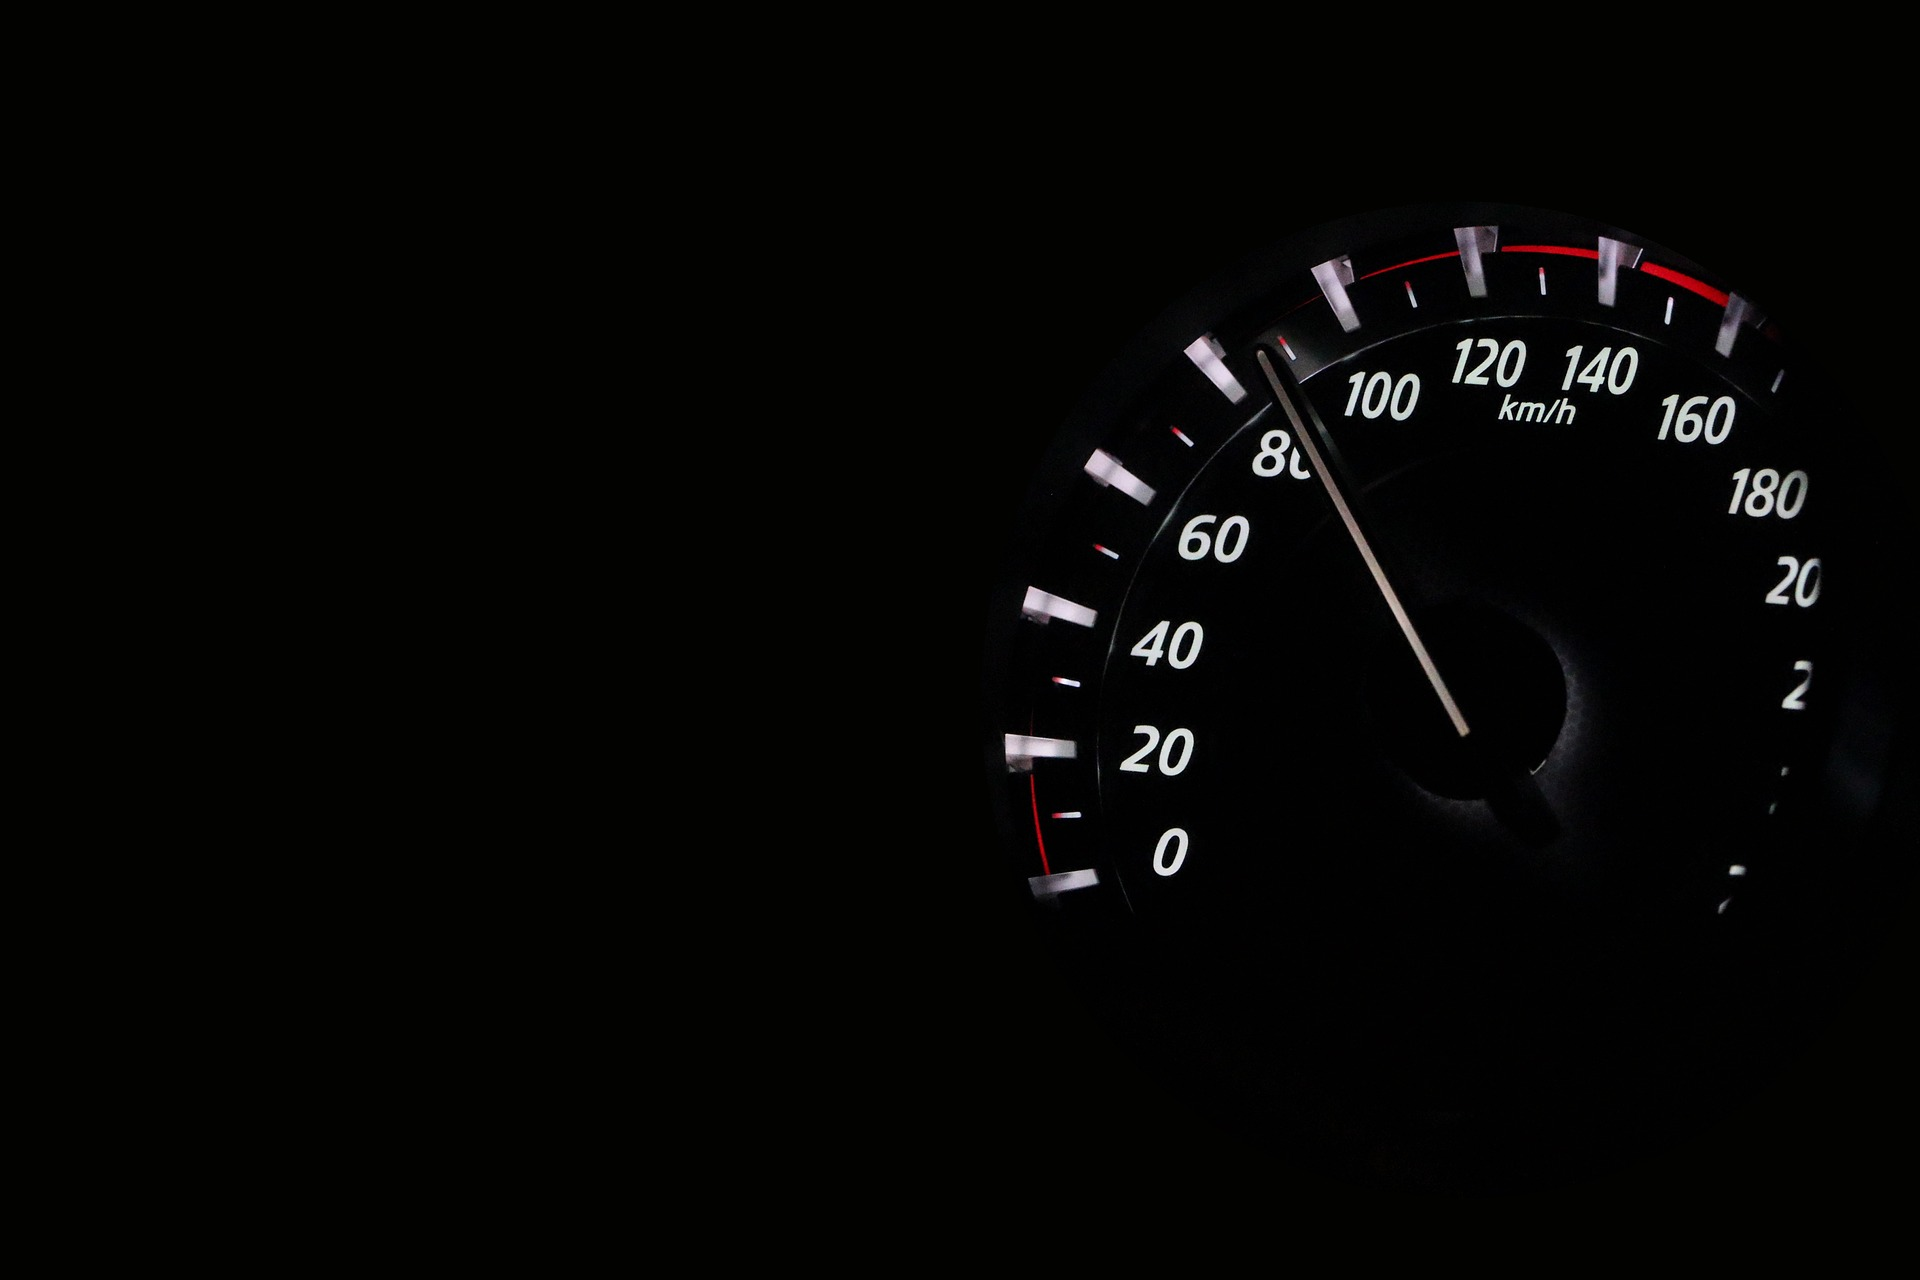
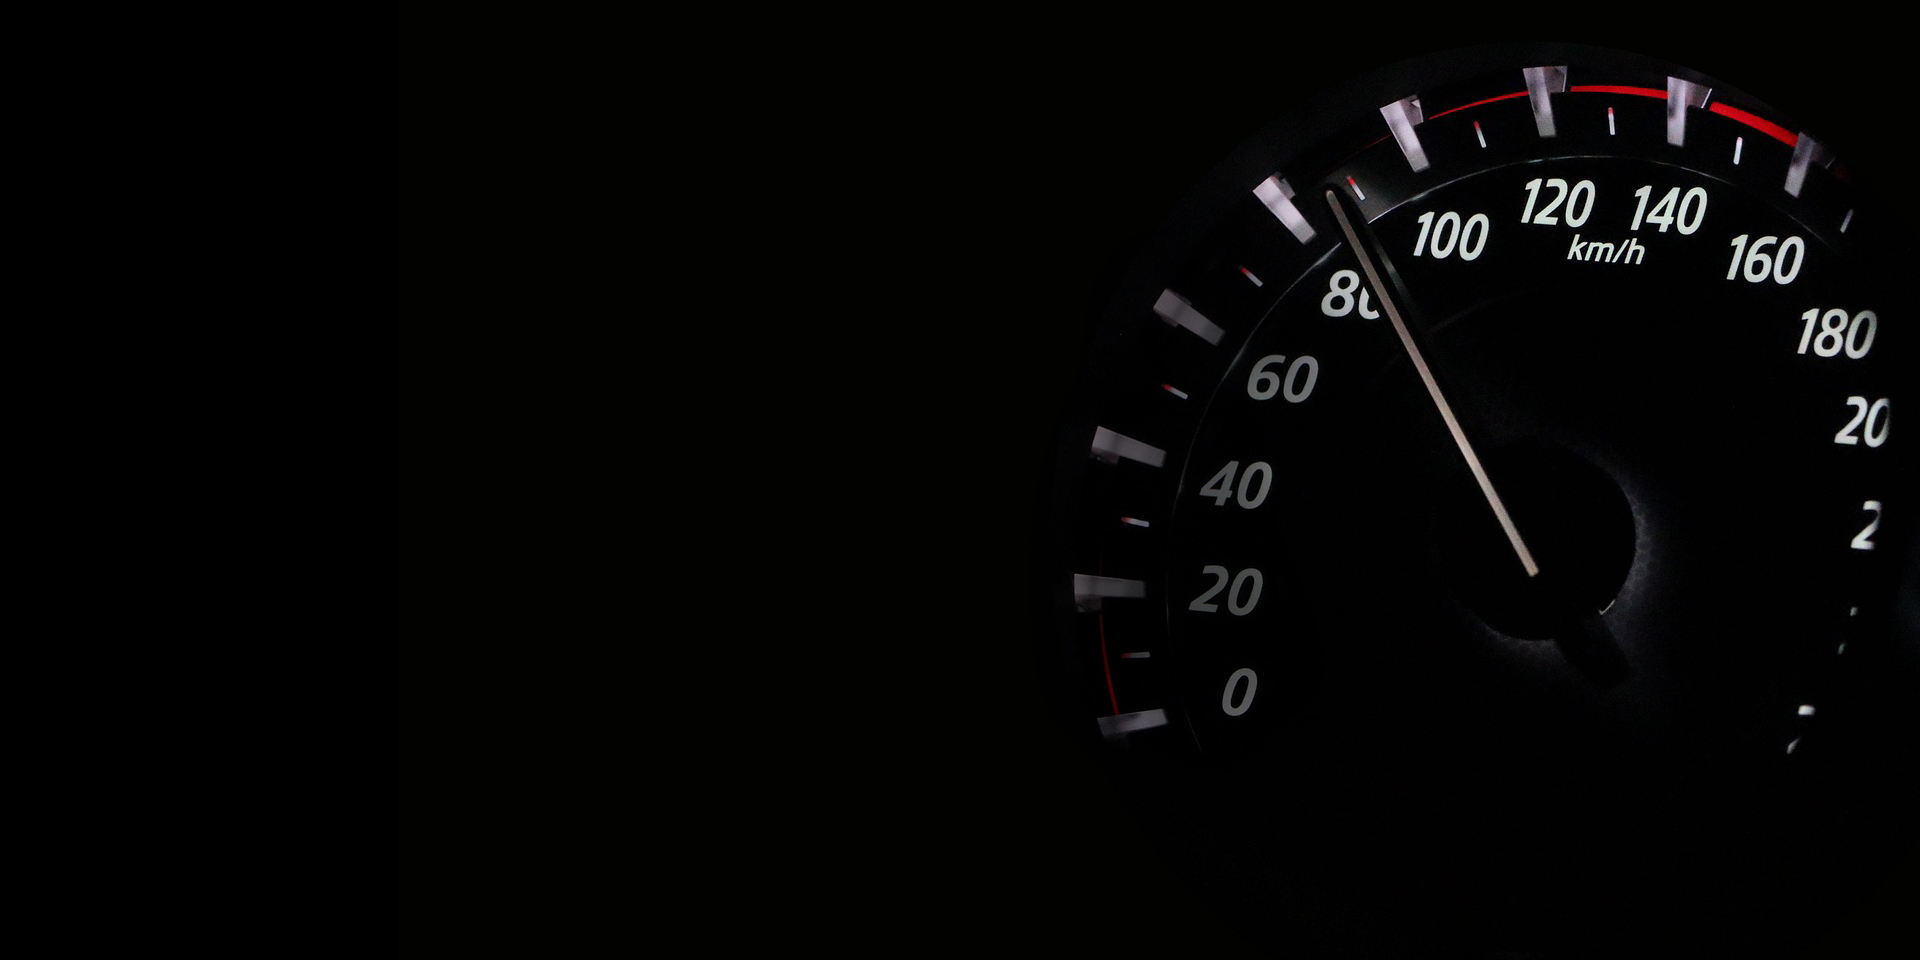
Páginas ok
Segunda janela
Inserir dados
Login
Cadastro

diff --git a/Templates/SegundaJanela.html b/Templates/SegundaJanela.html
@@ -1,11 +1,12 @@
 {% extends "Layout.html" %}
 {% block content %}
 <body>
-    <div class= "content-section">
+    <div class="conteiner-fluid" style="background-image: url(static/imagens/porsche.jpg); background-size: cover; height: auto; margin: -35px auto -50px; padding: 50px 0;">
+    <div class= "content-section  mx-auto bg-dark" style="width: 450px; opacity: .9;">
         <form method = 'POST' action = ''>
             {{ form.hidden_tag() }}
             <fieldset class = 'form-group'>
-                    <div class= "form-group">
+                    <div class= "form-group mb-2">
                         {{form.Marca.label(class="form-control-label") }}
                         {% if form.Marca.errors %}
                             {{ form.Marca(class="form-control form-control-lg is-invalid")}}
@@ -18,7 +19,7 @@
                                 {{ form.Marca(class="form-control form-control-lg") }}
                         {% endif %}
                     </div>
-                <div class= "form-group">
+                <div class= "form-group mb-2">
                     {{form.Modelo.label(class="form-control-label") }}
                     {% if form.Modelo.errors %}
                         {{ form.Modelo(class="form-control form-control-lg is-invalid")}}
@@ -31,7 +32,7 @@
                             {{ form.Modelo(class="form-control form-control-lg") }}
                     {% endif %}
                 </div>
-                <div class= "form-group">
+                <div class= "form-group mb-2">
                     {{form.Ano.label(class="form-control-label") }}
 
                     {% if form.Ano.errors %}
@@ -45,7 +46,7 @@
                             {{ form.Ano(class="form-control form-control-lg") }}
                     {% endif %}
                 </div>
-                <div class= "form-group">
+                <div class= "form-group mb-2">
                     {{form.Quilometragem.label(class="form-control-label") }}
 
                     {% if form.Quilometragem.errors %}
@@ -60,7 +61,7 @@
                     {% endif %}
 
                 </div>
-                <div class= "form-group">
+                <div class= "form-group mb-2">
                     {{form.Preco.label(class="form-control-label") }}
 
                     {% if form.Preco.errors %}
@@ -74,7 +75,7 @@
                             {{ form.Preco(class="form-control form-control-lg") }}
                     {% endif %}
                 </div>
-                <div class= "form-group">
+                <div class= "form-group mb-2">
                     {{form.Cor.label(class="form-control-label") }}
 
                     {% if form.Cor.errors %}
@@ -88,7 +89,7 @@
                             {{ form.Cor(class="form-control form-control-lg") }}
                     {% endif %}
                 </div>
-                <div class= "form-group">
+                <div class= "form-group mb-4">
                     {{form.Localidade.label(class="form-control-label") }}
 
                     {% if form.Localidade.errors %}
@@ -108,5 +109,6 @@
             </div>
         </form>
     </div>
+</div>
 </body>
 {% endblock content%}

diff --git a/Templates/Homepage.html b/Templates/Homepage.html
@@ -4,29 +4,21 @@
   <ol class="carousel-indicators">
     <li data-target="#carouselExampleIndicators" data-slide-to="0" class="active"></li>
     <li data-target="#carouselExampleIndicators" data-slide-to="1"></li>
-    <li data-target="#carouselExampleIndicators" data-slide-to="2"></li>
   </ol>
   <div class="carousel-inner">
     <div class="carousel-item active">
       <img class="d-block w-100" src="static/imagens/odometer.jpg" alt="Primeiro Slide">
-      <div class="carousel-caption d-none d-md-block">
-    <h5>Bem Vindo à IVG</h5>
+      <div class="carousel-caption d-sm-block">
+    <h5 class="text-truncate" style="color: white;">Bem Vindo à IVG</h5>
     <p>Fazemos consultoria de IA para revenda de carros</p>
   </div>
     </div>
     <div class="carousel-item">
-      <img class="d-block w-100" src="static/imagens/odometer.jpg" alt="Segundo Slide">
-      <div class="carousel-caption d-none d-md-block">
-    <h5>...</h5>
-    <p>...</p>
-  </div>
+      <img class="d-block w-100" src="static/imagens/news.jpg" alt="Segundo Slide">
+      <div class="carousel-caption d-sm-block">
+    <h5 style="color:white;">Algoritmo em formação</h5>
+    <p>No momento estamos trabalhando em um algoritmo para a revenda de carros. Avisaremos quando estiver pronto</p>
     </div>
-    <div class="carousel-item">
-      <img class="d-block w-100" src="static/imagens/odometer.jpg" alt="Terceiro Slide">
-      <div class="carousel-caption d-none d-md-block">
-    <h5>...</h5>
-    <p>...</p>
-  </div>
     </div>
   </div>
   <a class="carousel-control-prev" href="#carouselExampleIndicators" role="button" data-slide="prev">
@@ -38,20 +30,22 @@
     <span class="sr-only">Próximo</span>
   </a>
 </div>
-<div class="container">
-  <div class="row">
+<div class="container mx-6 px-5">
+  <div class="row  mx-5 px-5 mt-5">
     <div class="col-sm">
-        <img class="icone justify-content-center" src="static/imagens/iconedesegurança.png" alt="imagem">
+        <img class="icone" src="static/imagens/segurança.png" alt="imagem">
         <h1 style="font-size: 14px; margin: -15px 62px;">Segurança</h1>
         <p class="text-left" style="font-size: 11px; margin: 20px 0px;">A IVG garante a proteção dos seus dados</p>      
         </div>
         <div class="col-sm">
-           <img class="icone" src="static/imagens/iconedesegurança.png" alt="imagem">
-        <h1 style="font-size: 14px; margin: 20px 0px">Uma de três colunas<h1>
+           <img class="icone2" src="static/imagens/info.png" alt="imagem">
+        <h1 style="font-size: 14px; margin: -15px 25px">Informações de Dados<h1>
+          <p></p>
         </div>
         <div class="col-sm">
-           <img class="icone" src="static/imagens/iconedesegurança.png" alt="imagem">
-        <h1 style="font-size: 14px; margin: 20px 0px">Uma de três colunas<h1>
+           <img class="icone3" src="static/imagens/shield.png" alt="imagem">
+        <h1 style="font-size: 14px; margin: -15px 65px">Antifraude<h1>
+           <p></p>
         </div>
     </div>
 </div>

diff --git a/Templates/Layout.html b/Templates/Layout.html
@@ -18,25 +18,25 @@
   <header class="site-header">
       <nav class="navbar navbar-expand-lg navbar-dark bg-steel fixed-top">
         <div class="container">
-          <a class="navbar-brand mr-4" href="/HomePage"><img src="static/imagens/LOGO R02.png" class="logo" alt="marca da IVG"></a>
+          <a class="navbar-brand mr-4" href="/HomePage"><img src="static/imagens/LOGO R02azulclaro.png" class="logo" alt="marca da IVG"></a>
           <button class="navbar-toggler" type="button" data-toggle="collapse" data-target="#navbarToggle" aria-controls="navbarToggle" aria-expanded="false" aria-label="Toggle navigation">
             <span class="navbar-toggler-icon"></span>
           </button>
           <div class="collapse navbar-collapse" id="navbarToggle">
-            <div class="navbar-nav mr-5">
-              <a class="nav-item nav-link" href="{{ url_for('HomePage') }}">Home</a>
-              <a class="nav-item nav-link" href="{{ url_for('Sobre') }}">Sobre</a>
+            <div class="navbar-nav ml-4">
+              <a class="nav-item nav-link active" href="{{ url_for('HomePage') }}"> Home</a>
+              <a class="nav-item nav-link active" href="{{ url_for('Sobre') }}"> Sobre</a>
             </div>
             <!-- Navbar Right Side -->
-            <div class="navbar-nav mr-5">
+            <div class="navbar-nav ml-1">
               {% if current_user.is_authenticated %}
-                <a class="nav-item nav-link" href="{{ url_for('ContaEmpresa') }}">Empresa</a>
-                <a class="nav-item nav-link" href="{{ url_for('SegundaJanela') }}">Inserir dados</a>
-                <a class="nav-item nav-link" href="{{ url_for('TerceiraJanela') }}">Visualizar dados</a>
-                <a class="nav-item nav-link" href="{{ url_for('Logout') }}">Logout</a>
+                <a class="nav-item nav-link active" href="{{ url_for('ContaEmpresa') }}">Empresa</a>
+                <a class="nav-item nav-link active" href="{{ url_for('SegundaJanela') }}">Inserir dados</a>
+                <a class="nav-item nav-link active" href="{{ url_for('TerceiraJanela') }}">Visualizar dados</a>
+                <a class="nav-item nav-link active" href="{{ url_for('Logout') }}">Logout</a>
               {% else %}
-                <a class="nav-item nav-link" href="{{ url_for('Login') }}">Login</a>
-                <a class="nav-item nav-link" href="{{ url_for('Cadastro') }}">Cadastro</a>
+                <a class="nav-item nav-link active" href="{{ url_for('Login') }}">Login</a>
+                <a class="nav-item nav-link active" href="{{ url_for('Cadastro') }}">Cadastro</a>
               {% endif %}
             </div>
           </div>

diff --git a/Templates/Cadastro.html b/Templates/Cadastro.html
@@ -1,11 +1,12 @@
 {% extends "Layout.html" %}
 {% block content %}
-	<div class= "content-section">
+<div class="conteiner-fluid" style="background-image: url(static/imagens/laptop.jpg); background-size: cover; height: auto; margin: -35px auto -50px; padding: 50px 0;">
+	<div class= "content-section mx-auto bg-dark" style="width: 350px; opacity: .9;">
 		<form method = 'POST' action = ''>
 			{{ form.hidden_tag() }}
 			<fieldset class = 'form-group'>
 		 		<legend class="border-bottom mb-4"> Junte-se hoje</legend>
-				<div class= "form-group">
+				<div class= "form-group mb-2">
 					{{form.Usuario.label(class="form-control-label") }}
 					{% if form.Usuario.errors %}
 						{{ form.Usuario(class="form-control form-control-lg is-invalid")}}
@@ -18,7 +19,7 @@
 							{{ form.Usuario(class="form-control form-control-lg") }}
 					{% endif %}
 				</div>
-				<div class= "form-group">
+				<div class= "form-group mb-2">
 					{{form.NomeDaEmpresa.label(class="form-control-label") }}
 
 					{% if form.NomeDaEmpresa.errors %}
@@ -32,7 +33,7 @@
 							{{ form.NomeDaEmpresa(class="form-control form-control-lg") }}
 					{% endif %}
 				</div>
-				<div class= "form-group">
+				<div class= "form-group mb-2">
 					{{form.Email.label(class="form-control-label") }}
 
 					{% if form.Email.errors %}
@@ -46,7 +47,7 @@
 							{{ form.Email(class="form-control form-control-lg") }}
 					{% endif %}
 				</div>
-				<div class= "form-group">
+				<div class= "form-group mb-2">
 					{{form.Senha.label(class="form-control-label") }}
 
 					{% if form.Senha.errors %}
@@ -61,7 +62,7 @@
 					{% endif %}
 
 				</div>
-				<div class= "form-group">
+				<div class= "form-group mb-4">
 					{{form.ConfirmarSenha.label(class="form-control-label") }}
 
 					{% if form.ConfirmarSenha.errors %}
@@ -76,15 +77,15 @@
 					{% endif %}
 				</div>
 			</fieldset>
-			<div class= "form-group">
+			<div class= "form-group mb-4">
 					{{ form.Confirma(class= "btn btn-outline-info") }}
 			</div>
 		</form>
-	</div>
-	<div class = "border-top pt-3">
+		<div class = "border-top pt-3">
 		<small class = 'text muted'>
 			Já tem conta? <a class = 'ml-2' href="{{ url_for('Login')}}"> Clique aqui </a>
 		</small>
 	</div>
-
+	</div>
+</div>
 {% endblock content%}

diff --git a/static/main.css b/static/main.css
@@ -5,21 +5,18 @@
 
 
 body {
-  background: #fafafa;
-  color: #333333;
+  background-color: #141414;
+  color: white;
   margin-top: 5rem;
 }
 
-h1, h2, h3, h4, h5, h6 {
-  color: #444444;
-}
 
 .logo{
-  position: absolute;
+  position: relative;
   height: 180px;
 width: auto;
 padding: 0 10px;
-margin: -90px -50px;
+margin: -70px 0px -70px -50px;
 }
 
 .site-header .bg-steel {
@@ -42,19 +39,20 @@ div.navbar-nav {
     text-decoration: none;
    font-size: 14px;
    letter-spacing: 2px;
- margin: -5px 50px;
- padding: 20px 0px;
+ margin: auto 40px;
+ padding: 20px auto;
      text-transform: uppercase;
+  text-shadow: 0px 0px 5px rgba(250,250,250, .5);
+   outline: 0 none;
 }
-
 .site-header .navbar-nav .nav-link:hover {
-  color: #ffffff;
+  color: rgba(82,168,236,.8);
 }
-
+  text-shadow: 0px 0px 5px rgba(82,168,236,.8);
+}
 .site-header .navbar-nav .nav-link.active {
   font-weight: 500;
 }
-
 .content-section {
   background: #ffffff;
   padding: 10px 20px;
@@ -110,10 +108,12 @@ padding: 0;
   margin: -50px 0 0px;
 }
 .carousel-item{
-height: 300px;
+height: 250px;
 width: 100%;
 }
 .d-block .w-100{
+  position: center;
+  margin: 10px;
 }
 .carousel-caption{
   margin: 0px 0;
@@ -125,7 +125,24 @@ width: 100%;
   margin: 30px 50px;
   width: auto;
 }
+.icone2{
+ height: 100px;
+ margin: 30px 60px;
+ width: auto; 
+}
+.icone3{
+ height: 80px;
+ margin: 40px 60px;
+ width: auto; 
+}
 .col{
-  margin: 0 auto;
+  margin: 0;
   padding: 0;
 }
+.form-control-lg{
+  font-size: 12px;
+  text-transform: uppercase;
+}
+@media and (min-width: 700.98px){
+.container .row{
+margin: 200px;

diff --git a/Templates/Login.html b/Templates/Login.html
@@ -1,6 +1,7 @@
  {% extends "Layout.html" %}
 {% block content %}
-	<div class= "content-section">
+<div class="conteiner-fluid" style="background-image: url(static/imagens/laptop.jpg); background-size: cover; height: auto; margin: -35px auto -50px; padding: 50px 0;">
+	<div class= "content-section mx-auto bg-dark" style="width: 350px; opacity: .9;">
 		<form method = 'POST' action = ''>
 			{{ form.hidden_tag() }}
 			<fieldset class = 'form-group'>
@@ -58,11 +59,12 @@
 					</small>
 			</div>
 		</form>
-	</div>
-	<div class = "border-top pt-3">
+	<div class = "border-top pt-3 mt-2">
 		<small class = 'text muted'>
 			Não tem conta? <a class = "ml-2" href="{{ url_for('Cadastro') }}"> Inscreva-se</a>
 		</small> 
-	</div>
 
+	</div>
+	</div>
+</div>
 {% endblock content%}
